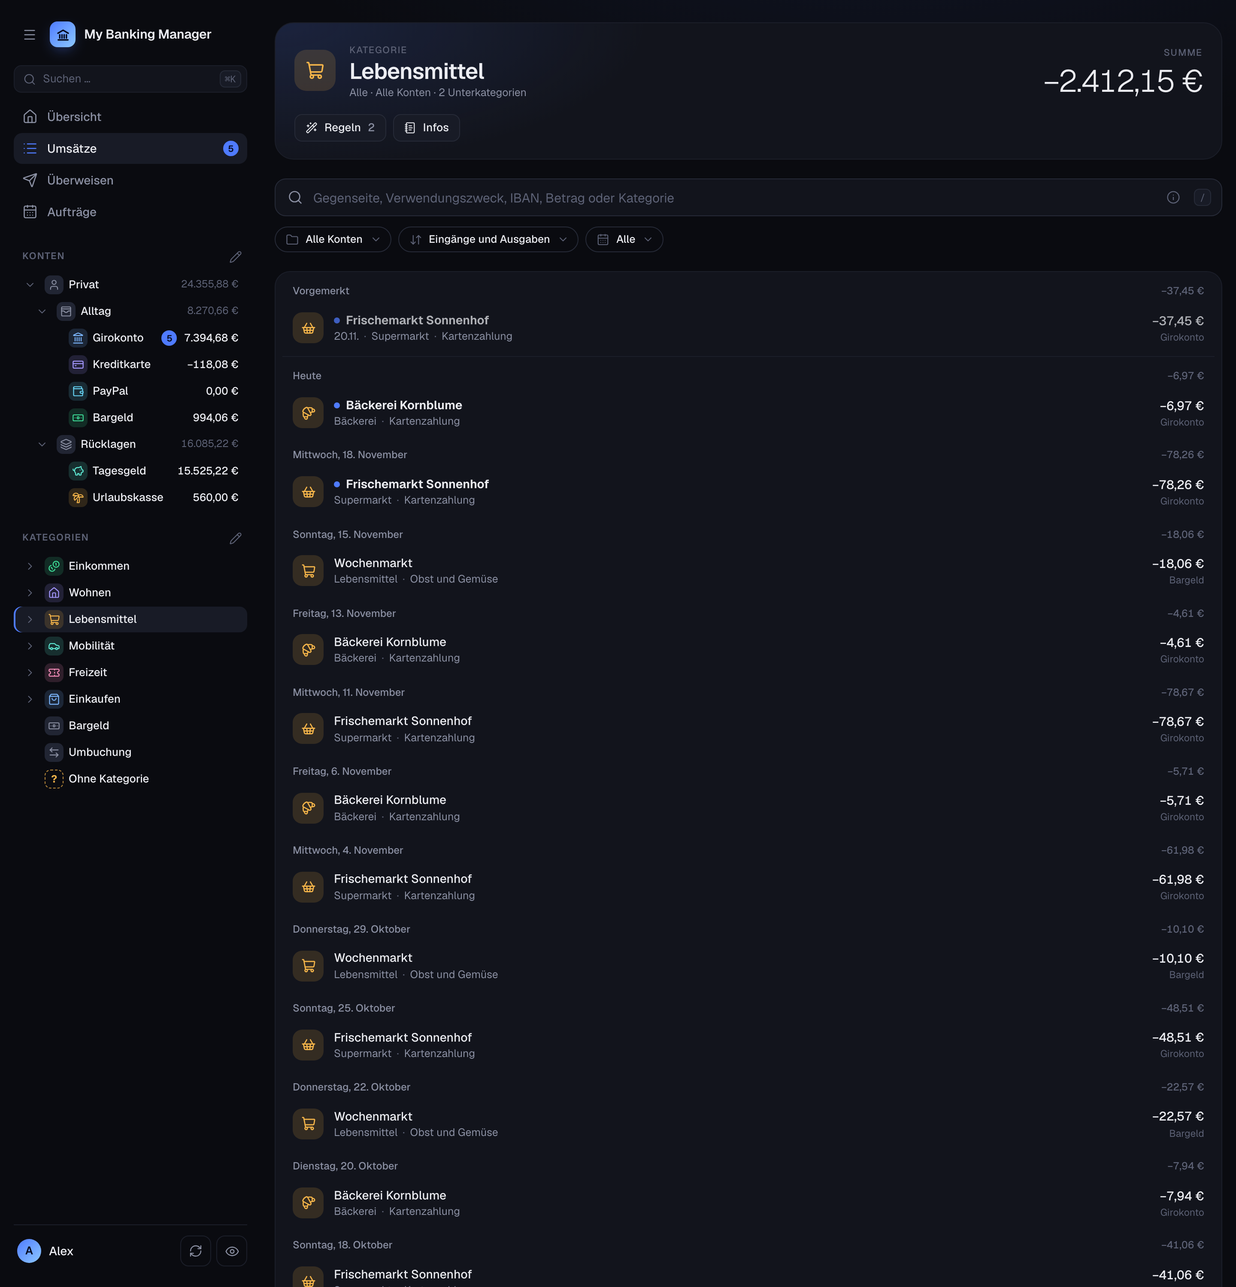
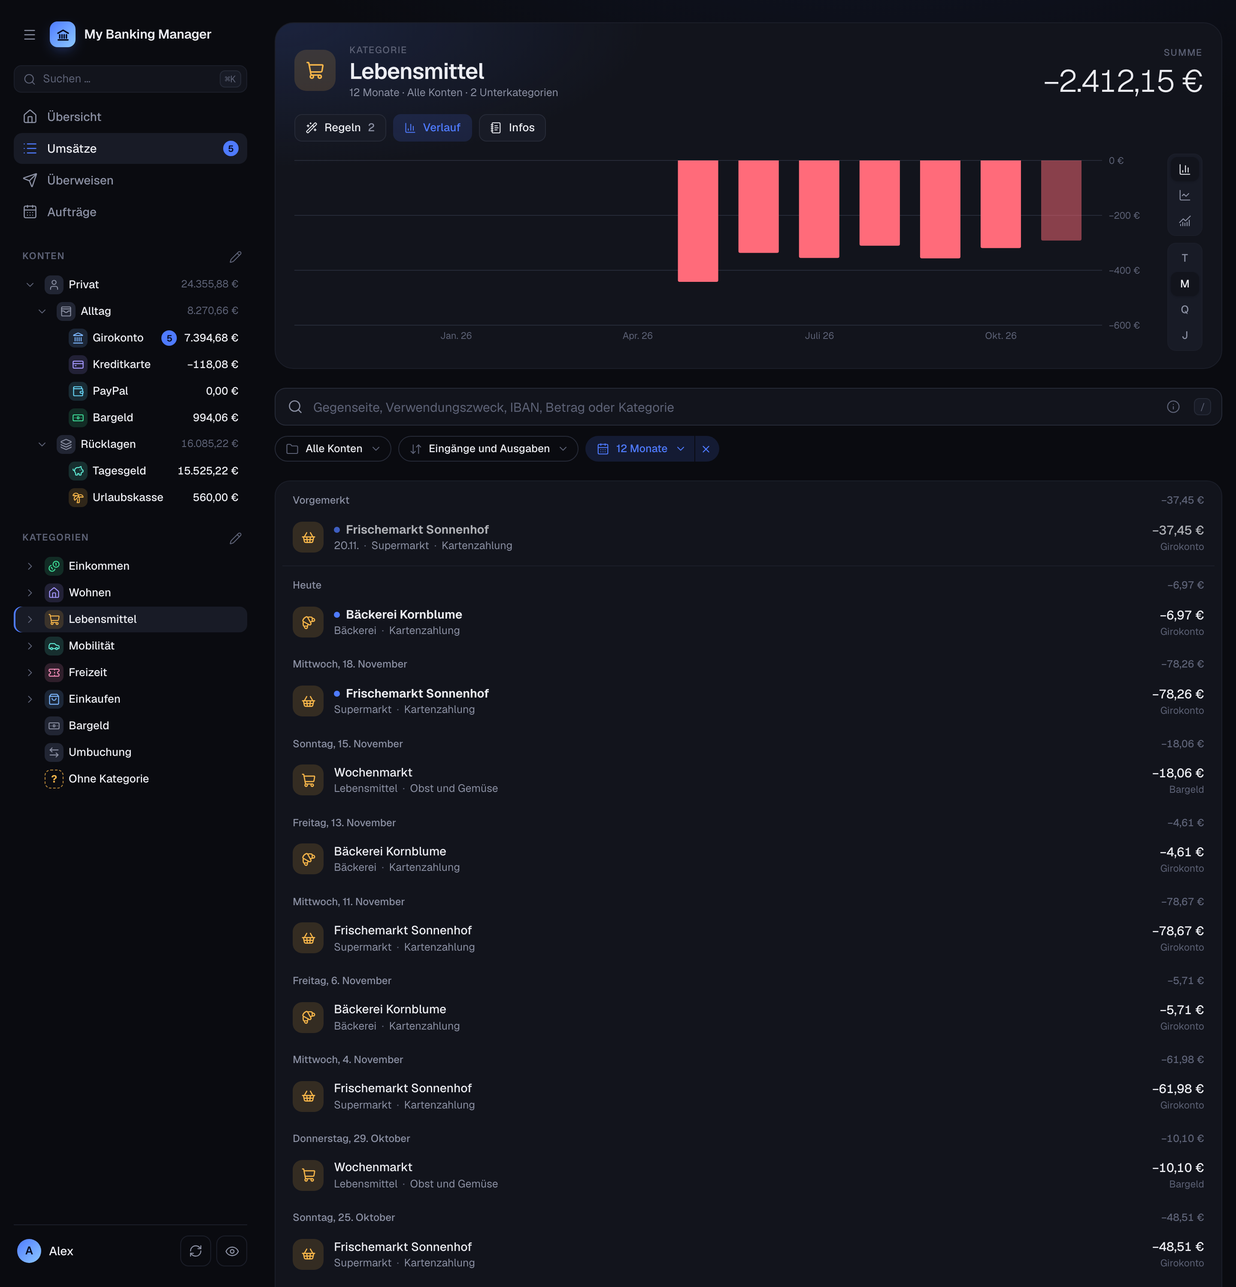
feat(umsätze): Verlauf auch für Kategorien
Der Kopf einer Kategorie hat jetzt „Verlauf“. Balken und Linie zeigen
die Summe der Kategorie je Tag, Monat, Quartal oder Jahr, „Eingänge und
Ausgaben“ beide getrennt; Kontofilter, Richtung und Zeitraum der Liste
gelten mit.

diff --git a/clients/web/src/pages/Transactions.tsx b/clients/web/src/pages/Transactions.tsx
@@ -5,7 +5,7 @@ import { isActive, startSync, useConnections, useSyncRuns } from "../lib/bank";
 import { addDaysIso, dateBounds, groupCardNumber, groupIban, isOffline, isValidIsoDate, parseTxQuery, routes, todayIso, TxRange, type AccountScope, type Transaction, type TxDateBounds } from "@mbm/shared";
 import { transactionsRoute } from "../router";
 import { call } from "../lib/api";
-import { useAccounts, useAction, useCategoryIndex, useGroups, useRules, useSeries, useTransactions, useTransferAccounts } from "../lib/queries";
+import { useAccounts, useAction, useCategoryIndex, useGroups, useRules, useSeries, useTransactions, useTransferAccounts, type FlowFilter } from "../lib/queries";
 import { useStartTransfer } from "../lib/transfer";
 import { readLocalSetting, useLocalSetting, writeLocalSetting } from "../lib/localSettings";
 import { accountsInScope, categoryColor, categoryPath, categorySubtree, scopeName, sumBalance } from "../lib/tree";
@@ -19,7 +19,7 @@ import { Field } from "../components/form";
 import { Ic, Sym } from "../components/icons";
 import { Choice, Picker, PickerButton, StylePicker } from "../components/pickers";
 import { useCategoryItems, useScopeItems } from "../components/pickItems";
-import { BalanceChart, type ChartPeriod } from "../components/BalanceChart";
+import { BalanceChart, type ChartMeasure, type ChartPeriod } from "../components/BalanceChart";
 import { CHART_STYLE_IDS, CHART_STYLES, SERIES_GROUP_IDS, SERIES_GROUPS, type ChartStyle } from "../lib/seriesGroups";
 import { InfoPanel, InfoToggle } from "../components/InfoPanel";
 import { QueryHelp } from "../components/QueryHelp";
@@ -607,8 +607,6 @@ function ContextHeader({
     const navigate = useNavigate();
     const chart = useLocalSetting("showBalanceChart");
     const setChart = (on: boolean) => writeLocalSetting("showBalanceChart", on);
-    const chartGroup = useLocalSetting("balanceChartGroup");
-    const chartStyle = useLocalSetting("balanceChartStyle");
     const infoOpen = useLocalSetting("showInfo");
     const toggleInfo = () => writeLocalSetting("showInfo", !infoOpen);
     const [styleOpen, setStyleOpen] = useState(false);
@@ -682,8 +680,10 @@ function ContextHeader({
                             Regeln<span className="muted">{ruleN}</span>
                         </button>
                     )}
+                    <ChartToggle on={chart} onToggle={setChart} />
                     {c && <InfoToggle info={c.info} open={infoOpen} onToggle={toggleInfo} />}
                 </div>
+                {chart && <ChartRow scope={search.scope} range={range} span={span} filter={{ category: search.cat, dir: search.dir }} measure="sum" onPick={onPickPeriod} />}
                 {c && infoOpen && <InfoPanel info={c.info} onEdit={() => ui.open({ kind: "info", target: "category", id: c.id })} />}
             </section>
         );
@@ -795,12 +795,7 @@ function ContextHeader({
                         Überweisen
                     </button>
                 )}
-                {ids.length > 0 && (
-                    <button className="btn btn-sm" aria-pressed={chart} onClick={() => setChart(!chart)}>
-                        <Ic icon={BarChart3} size={14} />
-                        Verlauf
-                    </button>
-                )}
+                {ids.length > 0 && <ChartToggle on={chart} onToggle={setChart} />}
                 {node && <InfoToggle info={node.info} open={infoOpen} onToggle={toggleInfo} />}
                 {node && (
                     <MenuButton
@@ -810,35 +805,7 @@ function ContextHeader({
                     />
                 )}
             </div>
-            {chart && (
-                <div className="chart-row">
-                    <div className="chart-head">
-                        <div className="seg" role="group" aria-label="Verlauf darstellen">
-                            {CHART_STYLE_IDS.map((s) => (
-                                <button key={s} className="seg-icon" aria-pressed={chartStyle === s} aria-label={CHART_STYLES[s]} title={CHART_STYLES[s]} onClick={() => writeLocalSetting("balanceChartStyle", s)}>
-                                    <Ic icon={STYLE_ICON[s]} size={15} />
-                                </button>
-                            ))}
-                        </div>
-                        <div className="seg" role="group" aria-label="Verlauf gruppieren">
-                            {SERIES_GROUP_IDS.map((g) => (
-                                <button key={g} aria-pressed={chartGroup === g} aria-label={SERIES_GROUPS[g].label} title={SERIES_GROUPS[g].label} onClick={() => writeLocalSetting("balanceChartGroup", g)}>
-                                    {SERIES_GROUPS[g].short}
-                                </button>
-                            ))}
-                        </div>
-                    </div>
-                    <BalanceChart
-                        scope={scope}
-                        range={range}
-                        span={span}
-                        filter={{ category: search.cat, dir: search.dir }}
-                        group={chartGroup}
-                        chartStyle={chartStyle}
-                        onPick={onPickPeriod}
-                    />
-                </div>
-            )}
+            {chart && <ChartRow scope={scope} range={range} span={span} filter={{ category: search.cat, dir: search.dir }} measure="balance" onPick={onPickPeriod} />}
             {node && infoOpen && <InfoPanel info={node.info} onEdit={() => ui.open({ kind: "info", target: account ? "account" : "group", id: node.id })} />}
         </section>
     );
@@ -865,6 +832,46 @@ function HeadPeek({ icon, color, name, children }: { icon: React.ReactNode; colo
 
 /** Symbol of each way to draw the chart in the switch above it. */
 const STYLE_ICON: Record<ChartStyle, typeof ChartLine> = { bar: ChartColumn, line: ChartLine, flow: ChartNoAxesCombined };
+
+/** "Verlauf" in the actions of the head: shows or hides the chart below them. */
+function ChartToggle({ on, onToggle }: { on: boolean; onToggle: (on: boolean) => void }) {
+    return (
+        <button className="btn btn-sm" aria-pressed={on} onClick={() => onToggle(!on)}>
+            <Ic icon={BarChart3} size={14} />
+            Verlauf
+        </button>
+    );
+}
+
+/**
+ * The chart of the head with its switches for style and grouping: the balance of an account or group, or the sum of a
+ * category (`measure` "sum"); "Eingänge und Ausgaben" follows `filter` in both.
+ */
+function ChartRow({ scope, range, span, filter, measure, onPick }: { scope: AccountScope; range: TxRange; span?: TxDateBounds; filter: FlowFilter; measure: ChartMeasure; onPick: (period: ChartPeriod) => void }) {
+    const chartGroup = useLocalSetting("balanceChartGroup");
+    const chartStyle = useLocalSetting("balanceChartStyle");
+    return (
+        <div className="chart-row">
+            <div className="chart-head">
+                <div className="seg" role="group" aria-label="Verlauf darstellen">
+                    {CHART_STYLE_IDS.map((s) => (
+                        <button key={s} className="seg-icon" aria-pressed={chartStyle === s} aria-label={CHART_STYLES[s]} title={CHART_STYLES[s]} onClick={() => writeLocalSetting("balanceChartStyle", s)}>
+                            <Ic icon={STYLE_ICON[s]} size={15} />
+                        </button>
+                    ))}
+                </div>
+                <div className="seg" role="group" aria-label="Verlauf gruppieren">
+                    {SERIES_GROUP_IDS.map((g) => (
+                        <button key={g} aria-pressed={chartGroup === g} aria-label={SERIES_GROUPS[g].label} title={SERIES_GROUPS[g].label} onClick={() => writeLocalSetting("balanceChartGroup", g)}>
+                            {SERIES_GROUPS[g].short}
+                        </button>
+                    ))}
+                </div>
+            </div>
+            <BalanceChart scope={scope} range={range} span={span} filter={filter} group={chartGroup} chartStyle={chartStyle} measure={measure} onPick={onPick} />
+        </div>
+    );
+}
 
 /** A set filter with × to remove it; unset filters show the picker alone. */
 function Removable({ label, onClear, children }: { label: string; onClear?: () => void; children: React.ReactNode }) {

diff --git a/clients/web/src/components/BalanceChart.tsx b/clients/web/src/components/BalanceChart.tsx
@@ -3,12 +3,14 @@ import { Area, AreaChart, Bar, BarChart, CartesianGrid, Cell, ComposedChart, Lin
 import type { AccountScope, TxDateBounds, TxRange } from "@mbm/shared";
 import { useFlows, useSeries, type FlowFilter } from "../lib/queries";
 import { dateText, dayLabel, fmt, monthYear, shortDate, shortEuro } from "../lib/format";
-import { axisLayout, groupFlows, groupPointLabel, groupSeries, niceScale, periodLabel, periodOf, type ChartStyle, type FlowGroupPoint, type GroupPoint, type SeriesGroup } from "../lib/seriesGroups";
+import { axisLayout, groupFlows, groupPointLabel, groupSeries, groupSums, niceScale, periodLabel, periodOf, type ChartStyle, type FlowGroupPoint, type GroupPoint, type SeriesGroup } from "../lib/seriesGroups";
 
 type ChartPoint = { date: string; balance?: number; forecast?: number; group?: GroupPoint; income?: number; expenses?: number; net?: number; flow?: FlowGroupPoint };
 /** The days a picked value covers. */
 export type ChartPeriod = { from: string; to: string };
 type PickHandler = (period: ChartPeriod) => void;
+/** What bars and line show: the balance of the accounts, or the sum of the bookings `filter` keeps (a category). */
+export type ChartMeasure = "balance" | "sum";
 
 const AXIS_WIDTH = 64;
 const MARGIN = { top: 8, right: 0, bottom: 0, left: 0 };
@@ -22,6 +24,7 @@ const reducedMotion = () => matchMedia("(prefers-reduced-motion: reduce)").match
  * or averages per month, quarter or year; when they do not fit, the plot scrolls sideways under a fixed amount axis.
  * `chartStyle` "flow" shows instead the income and expenses of each period as bars, their total as a line; only these
  * follow `filter`, the balance stays the account's.
+ * With `measure` "sum" bars and line show instead the total of the bookings `filter` keeps per day, month, quarter or year.
  * `onPick` gets the days of the value clicked, anywhere in its column; a value of the forecast is not picked.
  */
 export function BalanceChart(props: {
@@ -34,9 +37,11 @@ export function BalanceChart(props: {
     forecastDays?: number;
     group?: SeriesGroup;
     chartStyle?: ChartStyle;
+    measure?: ChartMeasure;
     onPick?: PickHandler;
 }) {
-    return props.chartStyle === "flow" ? <FlowChart {...props} group={props.group ?? "day"} /> : <BalanceSeriesChart {...props} />;
+    if (props.chartStyle === "flow") return <FlowChart {...props} group={props.group ?? "day"} />;
+    return props.measure === "sum" ? <SumChart {...props} group={props.group ?? "day"} /> : <BalanceSeriesChart {...props} />;
 }
 
 /** Income and expenses per period as bars up and down, the total of each period as a line; own transfers left out unless `filter` picks them. */
@@ -69,6 +74,39 @@ function FlowChart({
     return (
         <div className={`chart-wrap amt ${onPick ? "pick" : ""}`} style={style}>
             {points.length > 0 && <ScrollingChart id={id} points={points} group={group} chartStyle="flow" hasForecast={false} onPick={onPick} />}
+        </div>
+    );
+}
+
+/** Total of the bookings `filter` keeps per period, as bars or a line; own transfers left out unless `filter` picks them. */
+function SumChart({
+    scope,
+    days = 90,
+    range,
+    span,
+    filter,
+    height = 210,
+    group,
+    chartStyle = "bar",
+    onPick,
+}: {
+    scope: AccountScope;
+    days?: number;
+    range?: TxRange;
+    span?: TxDateBounds;
+    filter?: FlowFilter;
+    height?: number | "fill";
+    group: SeriesGroup;
+    chartStyle?: ChartStyle;
+    onPick?: PickHandler;
+}) {
+    const flows = useFlows(scope, days, range, span, filter);
+    const id = useId().replace(/:/g, "");
+    const points = useMemo<ChartPoint[]>(() => groupSums(flows.data?.points ?? [], group).map((g) => ({ date: g.date, balance: g.balance, group: g })), [flows.data, group]);
+    const style = height === "fill" ? undefined : ({ "--ch": `${height}px` } as React.CSSProperties);
+    return (
+        <div className={`chart-wrap amt ${onPick ? "pick" : ""}`} style={style}>
+            {points.length > 0 && <ScrollingChart id={id} points={points} group={group} chartStyle={chartStyle} measure="sum" hasForecast={false} onPick={onPick} />}
         </div>
     );
 }
@@ -144,6 +182,7 @@ function ScrollingChart({
     points,
     group,
     chartStyle,
+    measure = "balance",
     hasForecast,
     onPick,
 }: {
@@ -151,6 +190,7 @@ function ScrollingChart({
     points: ChartPoint[];
     group: SeriesGroup;
     chartStyle: ChartStyle;
+    measure?: ChartMeasure;
     hasForecast: boolean;
     onPick?: PickHandler;
 }) {
@@ -203,7 +243,7 @@ function ScrollingChart({
                         {xAxis}
                         {yAxis}
                         {grid}
-                        {chartTooltip(group, { stroke: "var(--faint)" })}
+                        {chartTooltip(group, { stroke: "var(--faint)" }, measure)}
                         {zero}
                         {balanceArea(id, group)}
                         {hasForecast && forecastArea()}
@@ -242,11 +282,11 @@ function ScrollingChart({
                         {xAxis}
                         {yAxis}
                         {grid}
-                        {chartTooltip(group, { fill: "var(--hover)" })}
+                        {chartTooltip(group, { fill: "var(--hover)" }, measure)}
                         {zero}
                         <Bar dataKey="balance" stackId="b" radius={radius} isAnimationActive={!reducedMotion()}>
                             {points.map((p) => (
-                                // Negative balances in red; a period cut by the range (the running month) paler
+                                // Negative values in red; a period cut by the range (the running month) paler
                                 <Cell key={p.date} fill={(p.balance ?? 0) < 0 ? "var(--neg)" : `url(#s${id})`} fillOpacity={p.group?.partial ? 0.5 : 1} />
                             ))}
                         </Bar>
@@ -299,14 +339,15 @@ function chartDefs(id: string) {
     );
 }
 
-function chartTooltip(group: SeriesGroup, cursor: React.SVGProps<SVGElement>) {
+/** Tooltip of bars and line: a sum names its period alone, an average with "Ø". */
+function chartTooltip(group: SeriesGroup, cursor: React.SVGProps<SVGElement>, measure: ChartMeasure = "balance") {
     return (
         <Tooltip
             cursor={cursor}
             content={({ active, payload }) => {
                 const p = active ? (payload?.[0]?.payload as ChartPoint | undefined) : undefined;
                 if (!p) return null;
-                const label = p.group && group !== "day" ? groupPointLabel(p.group, group) : p.balance === undefined ? `${dateText(p.date)} · Vorschau` : dayLabel(p.date);
+                const label = p.group && group !== "day" ? (measure === "sum" ? periodLabel(p.group, group) : groupPointLabel(p.group, group)) : p.balance === undefined ? `${dateText(p.date)} · Vorschau` : dayLabel(p.date);
                 return (
                     <div className="chart-tip">
                         <span className="muted">{label}</span>

diff --git a/clients/web/src/lib/seriesGroups.test.ts b/clients/web/src/lib/seriesGroups.test.ts
@@ -1,6 +1,6 @@
 import { describe, expect, it } from "vitest";
 import { addDaysIso } from "@mbm/shared";
-import { axisLayout, groupFlows, groupPointLabel, groupSeries, niceScale, periodLabel, periodOf } from "./seriesGroups";
+import { axisLayout, groupFlows, groupPointLabel, groupSeries, groupSums, niceScale, periodLabel, periodOf } from "./seriesGroups";
 
 /** Daily points from `from` to `to` with the balance given per day (default: day index × 100). */
 function days(from: string, to: string, balance: (i: number, date: string) => number = (i) => i * 100) {
@@ -95,6 +95,20 @@ describe("groupFlows", () => {
         const [, whole, cut] = groupFlows(flows, "month");
         expect(periodLabel(whole!, "month")).toBe("November 2026");
         expect(periodLabel(cut!, "month")).toBe("Dezember 2026 (01.12.–02.12.2026)");
+    });
+});
+
+describe("groupSums", () => {
+    const flows = days("2026-10-30", "2026-12-02").map((p) => ({ date: p.date, income: p.date.endsWith("-01") ? 250000 : 0, expenses: -1000 }));
+
+    it("takes the total of each period as its value", () => {
+        expect(groupSums(flows, "month")).toEqual([
+            { date: "2026-10-01", from: "2026-10-30", to: "2026-10-31", partial: true, balance: -2000 },
+            { date: "2026-11-01", from: "2026-11-01", to: "2026-11-30", partial: false, balance: 220000 },
+            { date: "2026-12-01", from: "2026-12-01", to: "2026-12-02", partial: true, balance: 248000 },
+        ]);
+        expect(groupSums(flows.slice(2, 3), "day")).toEqual([{ date: "2026-11-01", from: "2026-11-01", to: "2026-11-01", partial: false, balance: 249000 }]);
+        expect(groupSums([], "year")).toEqual([]);
     });
 });
 

diff --git a/scripts/screenshots/fixtures.ts b/scripts/screenshots/fixtures.ts
@@ -642,9 +642,17 @@ export function cashflow(q: { scope: string; from: string; to: string }) {
 }
 
 /** Income and expenses per day over the days of the balance series, counted like the cashflow. */
-export function flows(q: { scope: string; days: number; range?: TxRange; from?: string; to?: string }) {
+export function flows(q: { scope: string; days: number; range?: TxRange; from?: string; to?: string; category?: string; dir?: "all" | "in" | "out" }) {
     const ids = new Set(accountsInScope(q.scope));
-    const rows = transactions.filter((t) => ids.has(t.accountId) && counts(t));
+    let rows = transactions.filter((t) => ids.has(t.accountId));
+    // Picked categories count even when left out of figures otherwise, as on the server
+    if (q.category && q.category !== "all") {
+        const picked = q.category.split(",");
+        const cats = new Set(picked.filter((x) => x !== "none").flatMap((x) => categorySubtree(Number(x))));
+        rows = rows.filter((t) => (t.categoryId === null ? picked.includes("none") : cats.has(t.categoryId)));
+    } else rows = rows.filter(counts);
+    if (q.dir === "in") rows = rows.filter((t) => t.amount > 0);
+    if (q.dir === "out") rows = rows.filter((t) => t.amount < 0);
     return {
         points: series({ ...q, forecastDays: 0 }).points.map(({ date }) => {
             const day = rows.filter((t) => t.bookingDate === date);

diff --git a/scripts/screenshots/capture.ts b/scripts/screenshots/capture.ts
@@ -87,7 +87,15 @@ const SHOTS: Shot[] = [
             await page.getByRole("button", { name: "Monat", exact: true }).click();
         },
     },
-    { name: "kategorien", route: `/transactions?ctx=cat&cat=${LEBENSMITTEL}`, themes: ["dark"] },
+    {
+        name: "kategorien",
+        route: `/transactions?ctx=cat&cat=${LEBENSMITTEL}&range=365`,
+        themes: ["dark"],
+        prepare: async (page) => {
+            await page.getByRole("button", { name: "Verlauf" }).click();
+            await page.getByRole("button", { name: "Monat", exact: true }).click();
+        },
+    },
     { name: "suche", route: `/transactions`, themes: ["dark"], prepare: (page) => search(page, "gegenseite:Frischemarkt betrag:>50") },
     { name: "bargeld", route: `/transactions?scope=account:${fx.CASH}`, themes: ["dark"] },
     { name: "paypal", route: `/transactions?scope=account:${fx.PAYPAL}`, themes: ["dark"] },

diff --git a/clients/web/src/lib/seriesGroups.ts b/clients/web/src/lib/seriesGroups.ts
@@ -94,6 +94,11 @@ export function groupFlows(points: readonly { date: string; income: number; expe
     return out;
 }
 
+/** Total of income and expenses per day, month, quarter or year as the value of a grouped series (the sum of a category). */
+export function groupSums(points: readonly { date: string; income: number; expenses: number }[], group: SeriesGroup): GroupPoint[] {
+    return groupFlows(points, group).map(({ date, from, to, partial, net }) => ({ date, from, to, partial, balance: net }));
+}
+
 /** Name of a period for the tooltip: "November 2026", with the days when the period is cut. */
 export function periodLabel(p: { date: string; from: string; to: string; partial: boolean }, group: Exclude<SeriesGroup, "day">): string {
     const name = group === "month" ? monthYearLong(p.date) : group === "quarter" ? quarterLabel(p.date) : yearLabel(p.date);

diff --git a/docs/guide/umsaetze.md b/docs/guide/umsaetze.md
@@ -127,7 +127,7 @@ Scrollst du die Liste, bleiben Suchfeld und Filter am oberen Rand stehen.
 
 ## Verlauf
 
-**Verlauf** im Kopf blendet ein Diagramm für das gewählte Konto oder die Gruppe ein. Es deckt den
+**Verlauf** im Kopf blendet ein Diagramm für das gewählte Konto, die Gruppe oder die Kategorie ein. Es deckt den
 Zeitraum des Filters ab, bei einer Datumsbedingung in der Suche deren Tage. Rechts daneben wählst du
 die Darstellung und gruppierst nach **T**ag, **M**onat, **Q**uartal oder **J**ahr:
 
@@ -143,7 +143,13 @@ die Darstellung und gruppierst nach **T**ag, **M**onat, **Q**uartal oder **J**ah
 dieser Kategorie und ihren Unterkategorien, bei einer aufgeteilten Buchung also nur der passende
 Anteil. Eine Kategorie, die du so wählst, zählt auch dann, wenn sie sonst nicht in Auswertungen
 zählt, etwa Umbuchungen. Mit der Richtung siehst du nur die Eingänge oder nur die Ausgaben. Der Suchtext wirkt nicht, nur ein Datum darin. **Balken**
-und **Linie** zeigen immer den Kontostand, ohne Filter.
+und **Linie** zeigen beim Konto und bei der Gruppe immer den Kontostand, ohne Filter.
+
+Bei einer **Kategorie** gibt es keinen Kontostand. **Balken** und **Linie** zeigen dort die
+**Summe** der Kategorie je Zeitraum, samt Unterkategorien: Eingänge plus Ausgaben, eine negative
+Summe als roten Balken. Gezählt wird wie bei **Eingänge und Ausgaben**, mit dem Kontofilter und der
+Richtung der Liste. Der Wert eines Monats, Quartals oder Jahres ist hier die Summe seiner Tage,
+nicht ihr Durchschnitt; deshalb fehlt das Ø.
 
 Ein Zeitraum, den der Filter anschneidet (etwa der laufende Monat), ist blasser. Fährst du über
 einen Wert, zeigt MBM die Beträge.

diff --git a/docs/guide/kategorien-regeln.md b/docs/guide/kategorien-regeln.md
@@ -7,11 +7,12 @@ Jeder Umsatz kann eine **Kategorie** haben. Kategorien bilden einen Baum, etwa
 ## Kategorien
 
 Ein Klick auf eine Kategorie im Kategorienbaum zeigt ihre Umsätze mit der Summe, samt
-Unterkategorien.
+Unterkategorien. **Verlauf** im Kopf blendet die Summe je Tag, Monat, Quartal oder Jahr als
+Diagramm ein (siehe [Verlauf](umsaetze.md#verlauf)).
 
-![Die Umsätze der Kategorie Lebensmittel mit Summe](../assets/screenshots/kategorien-dark.png)
+![Die Umsätze der Kategorie Lebensmittel mit Summe und Verlauf je Monat](../assets/screenshots/kategorien-dark.png)
 
-*Die Kategorie „Lebensmittel“ mit ihren Unterkategorien Supermarkt und Bäckerei, über alle Konten.*
+*Die Kategorie „Lebensmittel“ mit ihren Unterkategorien Supermarkt und Bäckerei, über alle Konten; darüber die Summe je Monat der letzten zwölf Monate.*
 
 - **Anlegen, umbenennen, verschieben:** über das Stift-Symbol über dem Baum oder das Menü einer
   Kategorie. Auch „Ohne Kategorie“ lässt sich an einen anderen Platz im Baum ziehen.

diff --git a/.release/next.md b/.release/next.md
@@ -12,6 +12,10 @@ Nothing inside an HTML comment is published.
 
 ### Verbessert
 
+- **Verlauf bei Kategorien:** Auch der Kopf einer Kategorie hat jetzt **Verlauf**. Balken und
+  Linie zeigen die Summe der Kategorie je Tag, Monat, Quartal oder Jahr, „Eingänge und Ausgaben“
+  beide getrennt. Kontofilter, Richtung und Zeitraum der Liste gelten mit, und ein Klick auf einen
+  Wert springt in der Liste zu seinem Zeitraum.
 - **Kontoauswahl:** Beim Importieren von Umsätzen, in einer Buchung von Hand und in der
   Gegenbuchung stehen die Konten in derselben Reihenfolge wie in der Seitenleiste.
 
